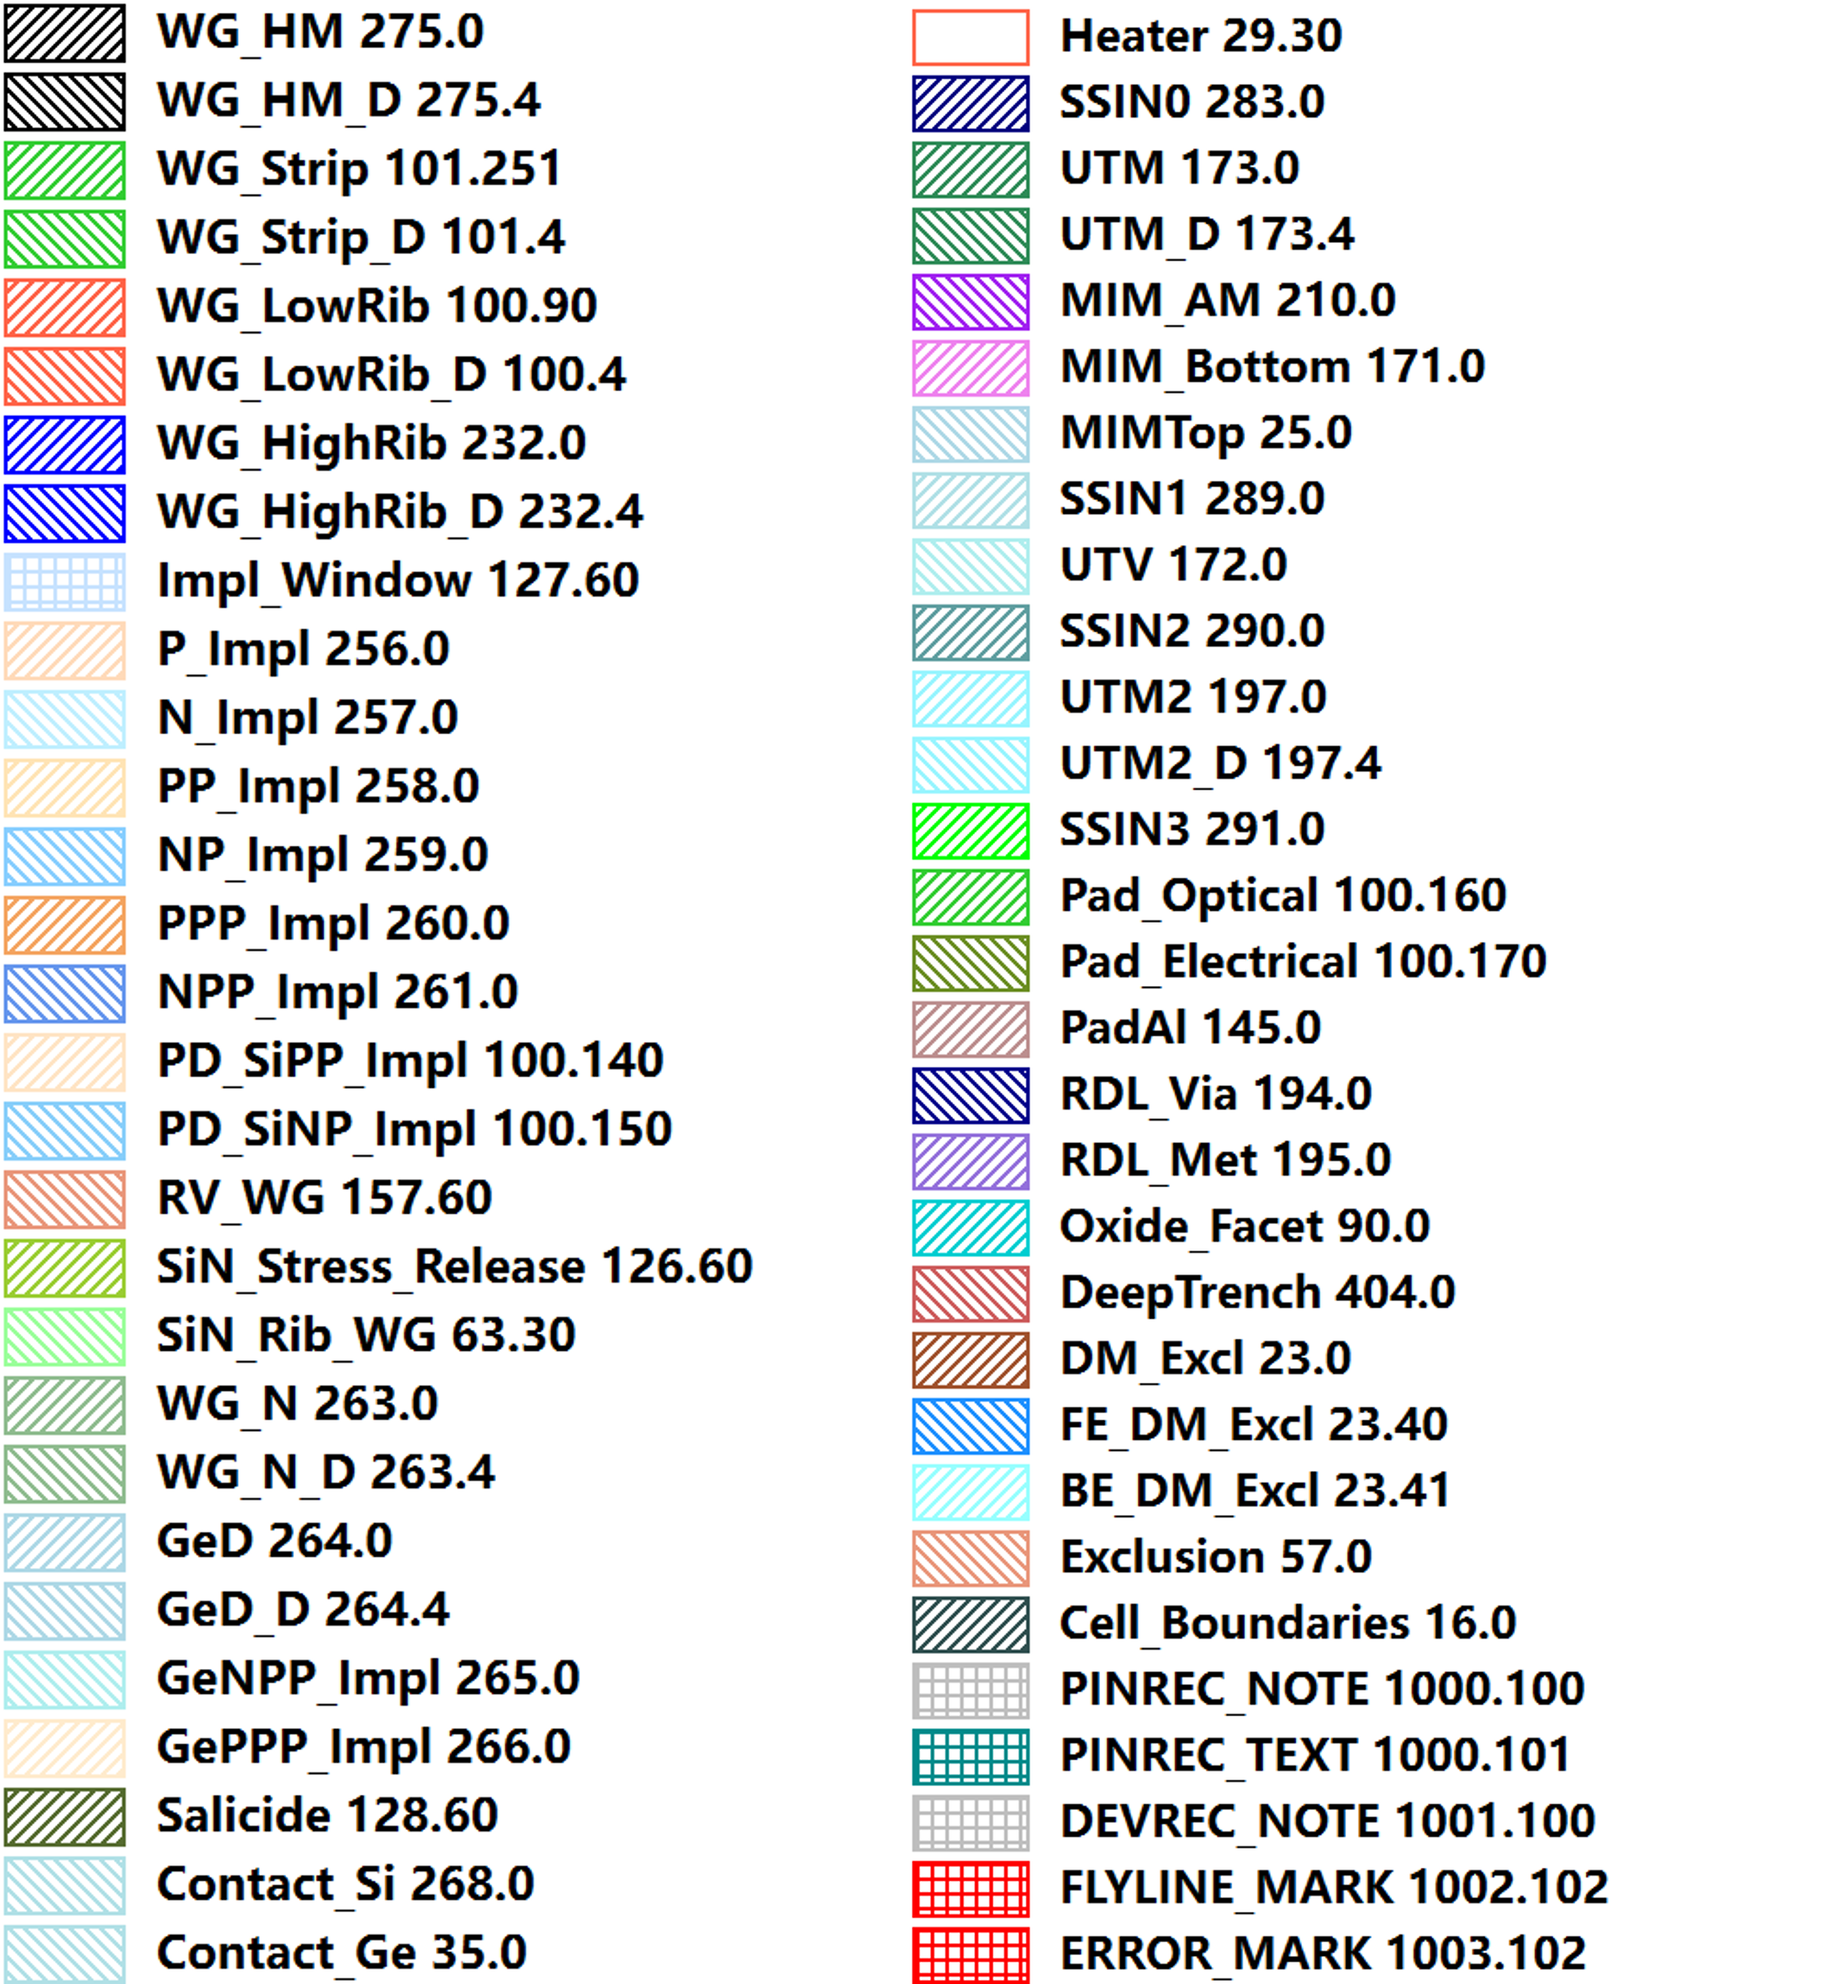
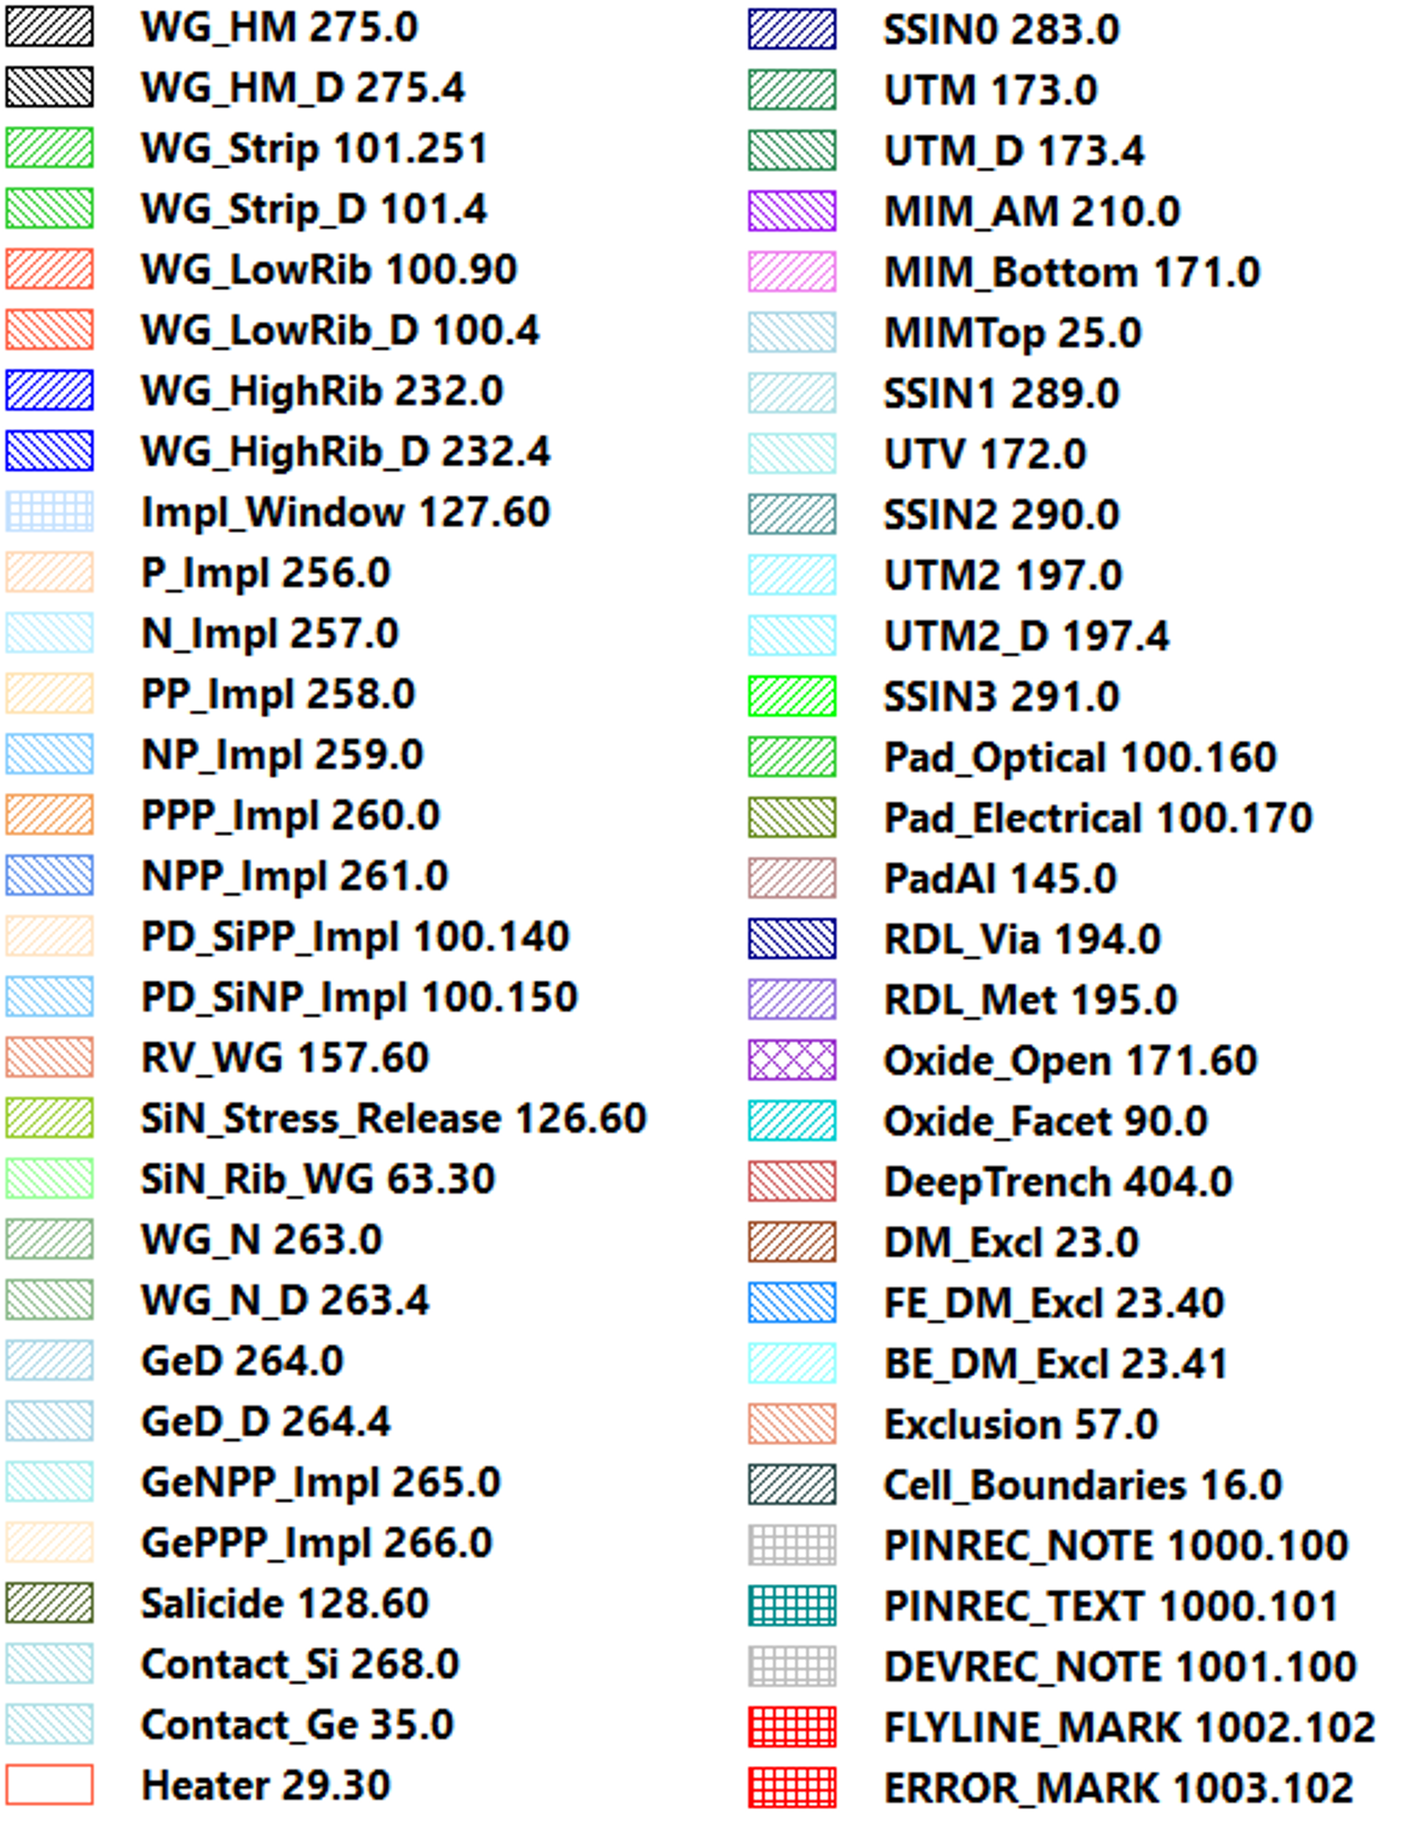
rev10

diff --git a/docs/source/conf.py b/docs/source/conf.py
@@ -6,8 +6,8 @@ project = 'SilTerra EMO1 RDL PDK Documentation'
 copyright = '2025, Latitudeds.com'
 author = 'www.latitudeds.com'
 
-release = '8.0'
-version = '8.0'
+release = '10.0'
+version = '10.0'
 
 # -- General configuration
 

diff --git a/docs/source/tech/layers.rst b/docs/source/tech/layers.rst
@@ -6,7 +6,7 @@ The layers are auto-generated by filling the ``layers.csv`` file, ``PINREC_NOTE`
 ::
 
     class LAYER(TECH.LAYER):
-        WG_HM = Layer(PROCESS.WGHM, PURPOSE.DRW, 'Waveguide hard mask')
+        WG_HM = Layer(PROCESS.WG    HM, PURPOSE.DRW, 'Waveguide hard mask')
         WG_HM_D = Layer(PROCESS.WGHM, PURPOSE.DUM, 'Waveguide hard mask dummy fill pattern')
         WG_Strip = Layer(PROCESS.WGST, PURPOSE.STR, 'Strip waveguide')
         WG_Strip_D = Layer(PROCESS.WGST, PURPOSE.DUM, 'Strip waveguide dummy fill pattern')
@@ -53,6 +53,7 @@ The layers are auto-generated by filling the ``layers.csv`` file, ``PINREC_NOTE`
         PadAl = Layer(PROCESS.PAL, PURPOSE.DRW, 'Aluminiun metal encapsulating electrical pad (generated layer)')
         RDL_Via = Layer(PROCESS.RDLV, PURPOSE.DRW, 'Re-distribute via')
         RDL_Met = Layer(PROCESS.RDLM, PURPOSE.DRW, 'Re-distribute aluminium pad metal')
+        Oxide_Open = Layer(PROCESS.MIMB, PURPOSE.WIN, 'Deep Oxide Etch on Slot Modulator')
         Oxide_Facet = Layer(PROCESS.OF, PURPOSE.DRW, 'Deepoxide, deep silicon and/or isotropic etch')
         DeepTrench = Layer(PROCESS.DET, PURPOSE.DRW, 'Deep oxide and silicon etch')
         DM_Excl = Layer(PROCESS.DME, PURPOSE.DRW, 'Dummy exclusion region')
@@ -67,4 +68,5 @@ The layers are auto-generated by filling the ``layers.csv`` file, ``PINREC_NOTE`
         ERROR_MARK = Layer(PROCESS.ERROR, PURPOSE.MARK, 'Error mark')
 
 
-For users using layout viewers (e.g. KLayout), they can import the layer properties file ``SilTerra_EMO1_RDL_PDK_rev8p0_Latitude.lyp`` in the file folder.
+
+For users using layout viewers (e.g. KLayout), they can import the layer properties file ``SilTerra_EMO1_RDL_PDK_rev10p0_Latitude.lyp`` in the file folder.

diff --git a/docs/source/quick_start/PhotoCAD.rst b/docs/source/quick_start/PhotoCAD.rst
@@ -53,14 +53,14 @@ Import SilTerra PDK into PhotoCAD
 
 First, make sure that the SilTerra PDK version matches the version of **PhotoCAD**. The version of **PhotoCAD** can be obtained in ``Run`` by running scripts in **PhotoCAD**.
 
-Extract the ``SilTerra_EMO1_RDL_PDK_rev8p0_Latitude`` zip archive and copy it to the workspace folder. As shown in the figure below, the ``SilTerra_EMO1_RDL_PDK_rev8p0_Latitude`` folder is in the demo folder and parallel to .vene_demo.
+Extract the ``SilTerra_EMO1_RDL_PDK_rev10p0_Latitude`` zip archive and copy it to the workspace folder. As shown in the figure below, the ``SilTerra_EMO1_RDL_PDK_rev10p0_Latitude`` folder is in the demo folder and parallel to .vene_demo.
 
 .. image:: ../images/PhotoCAD_6.png
    :width: 60%
 
-It's important to note that the PDK folder structure is the same as in the figure. Subfolders such as ``components`` and ``examples`` should be seen when expanding the ``SilTerra_EMO1_RDL_PDK_rev8p0_Latitude`` folder. Otherwise, the import path will be wrong when you run the code.
+It's important to note that the PDK folder structure is the same as in the figure. Subfolders such as ``components`` and ``examples`` should be seen when expanding the ``SilTerra_EMO1_RDL_PDK_rev10p0_Latitude`` folder. Otherwise, the import path will be wrong when you run the code.
 
-Open and run ``SilTerra_EMO1_RDL_PDK_rev8p0_Latitude/examples/link_test.py``. PDK will be imported successfully if there are no errors and ``link_test.gds`` will be exported.
+Open and run ``SilTerra_EMO1_RDL_PDK_rev10p0_Latitude/examples/link_test.py``. PDK will be imported successfully if there are no errors and ``link_test.gds`` will be exported.
 
 .. image:: ../images/PhotoCAD_7.png
 

diff --git a/docs/source/structure/index.rst b/docs/source/structure/index.rst
@@ -3,7 +3,7 @@ PDK structure
 
 Process Design Kit (PDK) is a tool for designated users to generate circuit layouts based on SilTerra design rules and technology settings.
 
-``SilTerra_EMO1_RDL_PDK_rev8p0_Latitude`` package includes these subfolders: ``components``, ``examples``, ``technology``, and ``util``.
+``SilTerra_EMO1_RDL_PDK_rev10p0_Latitude`` package includes these subfolders: ``components``, ``examples``, ``technology``, and ``util``.
 
 * ``components``
 
@@ -28,7 +28,7 @@ Process Design Kit (PDK) is a tool for designated users to generate circuit layo
 
     * Please see **PhotoCAD** online manual for more information.
 
-* ``SilTerra_EMO1_RDL_PDK_rev8p0_Latitude.lyp`` : This file allows layout tools e.g. Klayout to recognize the layer information when displaying gds file to the layout tool.
+* ``SilTerra_EMO1_RDL_PDK_rev10p0_Latitude.lyp`` : This file allows layout tools e.g. Klayout to recognize the layer information when displaying gds file to the layout tool.
 
     .. image:: ../images/lyp.png
        :width: 80%

diff --git a/docs/source/intro/install_photocad.rst b/docs/source/intro/install_photocad.rst
@@ -3,7 +3,7 @@ Install PhotoCAD and SilTerra PDK
 
 After installing PyCharm, you can create a **PhotoCAD** project by following the instructions in the **PhotoCAD Launcher**. Once created, you can find the completed **fnpcell** and **gpdk** packages in ``Lib>site-packages``. **fnpcell** is the main package of **PhotoCAD**, which is used for parametric layout component scripts and layout routing scripts. **gpdk** is a collection of all examples in **PhotoCAD**. It contains both component cell layout scripts and other design templates based on parametric component cells.
 
-To install SilTerra PDK package to **PhotoCAD**, extract ``SilTerra_EMO1_RDL_PDK_rev8p0_Latitude.zip`` to the project folder.
+To install SilTerra PDK package to **PhotoCAD**, extract ``SilTerra_EMO1_RDL_PDK_rev10p0_Latitude.zip`` to the project folder.
 
 .. image:: ../images/install.png
    :width: 60%

diff --git a/docs/source/index.rst b/docs/source/index.rst
@@ -4,7 +4,7 @@ SilTerra EMO1 RDL documentation
    :width: 100%
    :align: center
 
-This documentation outlines the contents and usage of the **Latitude PDK** for **SilTerra EMO1 RDL** (rev8).
+This documentation outlines the contents and usage of the **Latitude PDK** for **SilTerra EMO1 RDL** (rev10).
 
 The PDK is compatible with **PhotoCAD** and **Advanced SDL** for layout generation. Key features and capabilities include:
 
